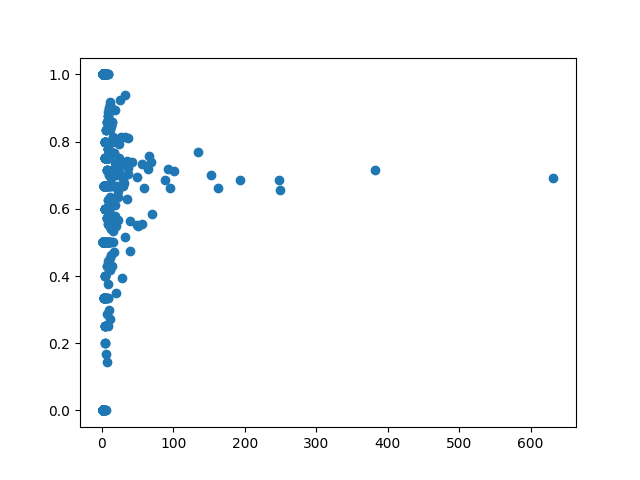
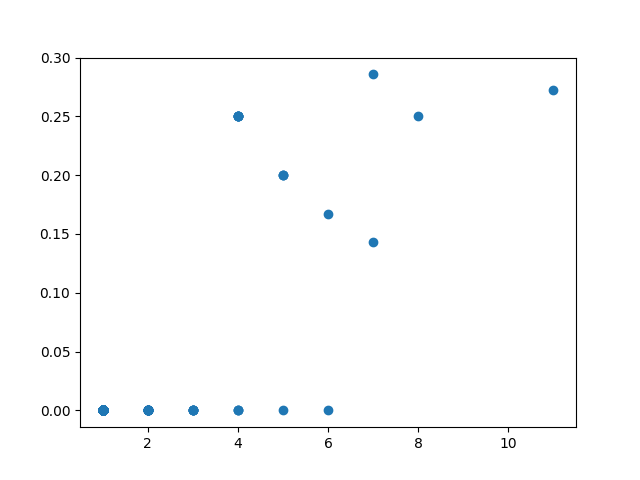
checkpoint: simulation 72% accurate classifier, and plot cluster size vs cluster score

diff --git a/clustering/fast-cluster.py b/clustering/fast-cluster.py
@@ -94,6 +94,11 @@ def getHeterogenity(items, ground_truths):
    cluster_ground_truths = [ground_truths[i] for i in items]
    return sum(cluster_ground_truths)/len(cluster_ground_truths)
 
+def getProbability(items, probabilties):
+    simulated_cluster_probabilities = [probabilties[i] for i in items]
+    return sum(simulated_cluster_probabilities)/len(simulated_cluster_probabilities)
+
+
 
 
 def plotHeterogenity(id_embedding_probability_file):
@@ -109,13 +114,15 @@ def plotHeterogenity(id_embedding_probability_file):
         # Call load method to deserialze
         id_embedding_probability = pickle.load(file)
         for user in id_embedding_probability:
-            print(user)
             user_id.append(user[0])
             string_embedding = np.asarray(user[1])
             np_embedding = string_embedding.astype(np.float64)
             np_embeddings.append(np_embedding)
             probabilities.append(user[2])
             ground_truths.append(user[3])
+        print(len(probabilities))
+        print(len(ground_truths))
+        print(len(np_embeddings))
     # print(user_id[0])
     # print(np_embeddings[0])
     # print(probabilities[0])
@@ -149,8 +156,12 @@ def plotHeterogenity(id_embedding_probability_file):
     while len(remaining_clusters) > 0:
         current_cluster_idx = remaining_clusters.pop(0)
         current_cluster_items = getClusterItemInds(current_cluster_idx, Z)    
-        cluster_sizes.append(len(current_cluster_items))
-        cluster_heterogenities.append(getHeterogenity(current_cluster_items, ground_truths))
+        # heterogenity = getHeterogenity(current_cluster_items, ground_truths)
+        heterogenity = getProbability(current_cluster_items, probabilities)
+        # if heterogenity < 1:
+        if len(current_cluster_items) < 50:
+            cluster_sizes.append(len(current_cluster_items))
+            cluster_heterogenities.append(heterogenity)
         try:
             clustA, clustB = getSubClusters(current_cluster_idx, Z)
             remaining_clusters.append(clustA)
@@ -179,3 +190,4 @@ if __name__ == "__main__":
     embeddings_path = os.path.basename(args.path)
     print(embeddings_path)
     plotHeterogenity(embeddings_path)
+    print()

diff --git a/graph-embedding/embeddings-and-probabilities.py b/graph-embedding/embeddings-and-probabilities.py
@@ -36,6 +36,22 @@ def generate_probabilitity_based_on_ground_truth(ground_truth):
     if ground_truth == 'bot':
         probability = trunc_gauss(.25, .15, 0, 1)
     return probability
+
+def generate_probability_based_on_ground_truth_binary(ground_truth):
+    classifier_accuracy = .72
+    if ground_truth == 'human':
+        if random.random() < 1 - classifier_accuracy:
+            # mis-classify human as bot 20% of the time i.e. 
+            classification = 0
+        else:
+            classification = 1
+    if ground_truth == 'bot':
+        if random.random() < 1 - classifier_accuracy:
+            # mis-classify bot as human 20% of the time i.e. 
+            classification = 1
+        else:
+            classification = 0
+    return classification
     
 
 
